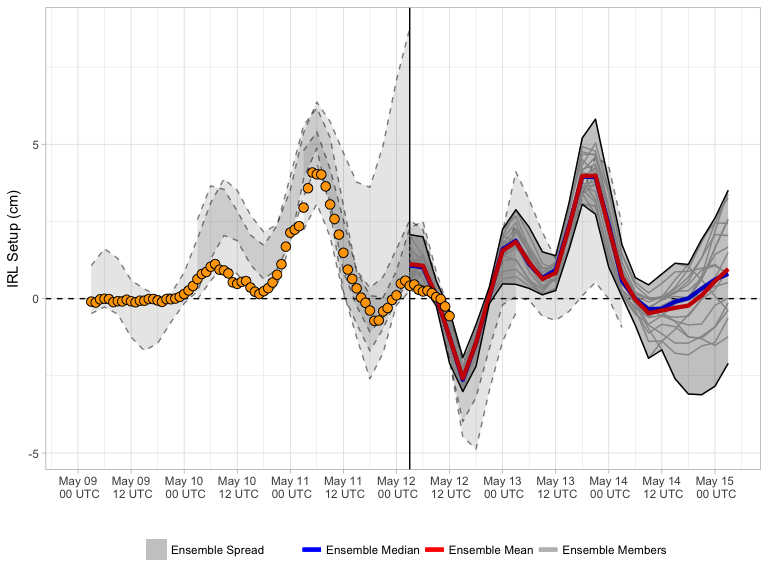
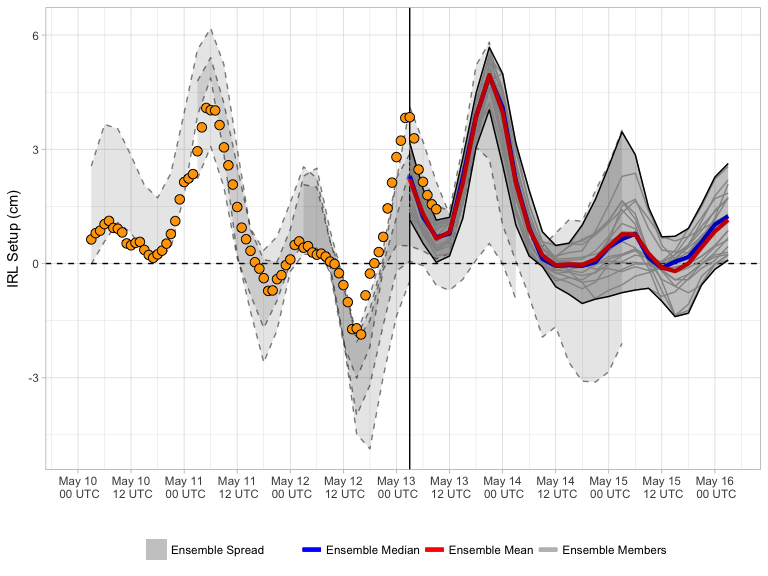
20170513 forecast update

Changed region(s): [[0.0312, 0.0625, 0.9688, 0.7812], [0.0938, 0.8125, 0.125, 0.8438], [0.0312, 0.7812, 0.0625, 0.8125]]

diff --git a/docs/index.md b/docs/index.md
@@ -3,7 +3,7 @@ Current Forecast
 
 [![](img/raw_setup.png)](https://bhlmn.github.io/IRLSetup/img/raw_setup.png)
 
-> Forecast valid 2017-05-12 09:47:43.
+> Forecast valid 2017-05-13 05:57:32.
 
 Explanation
 -----------
@@ -15,7 +15,7 @@ water elevation in the northern IRL (near Titusville), and negative
 setup indicates the increase elevation in the southern IRL (near
 Sebastian). The x-axis displays the date and time in UTC. The solid
 vertical line represents the beginning of the most recent ensemble
-forecast (currently 2017-05-11 18:00:00). For this most recent forecast,
+forecast (currently 2017-05-12 18:00:00). For this most recent forecast,
 the ensemble spread (grey shading) is bound by solid black lines, with
 individual members represented by faint grey lines. The ensemble mean
 and median for this are represented by the red and blue curves,
